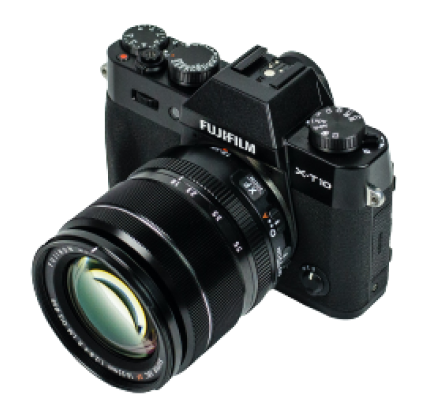
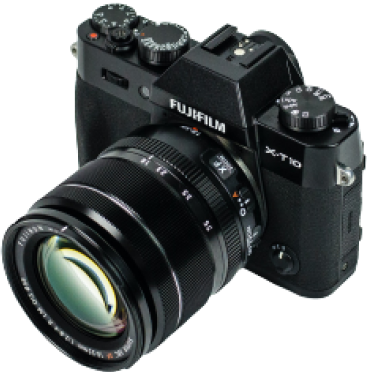
update: navigation-bar and hero section responsive

diff --git a/style.css b/style.css
@@ -81,16 +81,10 @@ body {
   display: flex;
   gap: 1rem;
   align-items: center;
-  background-image: url(./images/Circle\ design.svg);
-  background-position: right center;
-  background-repeat: no-repeat;
-  object-fit: cover;
-  padding: 3rem 0;
   margin-top: 2rem;
+  margin-bottom: 2rem;
 }
-.hero-content {
-  flex: 1;
-}
+
 .hero-content > .section-description,
 .primary-button {
   margin-top: 2rem;
@@ -109,11 +103,58 @@ body {
   font-weight: 700;
   line-height: 4rem;
 }
-
+.hero-content,
 .hero-img {
   flex: 1;
+}
+.hero-img {
   text-align: right;
+  background-image: url(./images/circle-bg1.png);
+  background-position: right center;
+  background-repeat: no-repeat;
+  object-fit: cover;
+  padding-top: 6rem;
 }
 .hero-img img {
-  max-width: 100%;
+  max-width: 80%;
+  position: relative;
+  top: -50px;
+  right: 50px;
 }
+/* mobile responsive */
+@media screen and (max-width: 576px) {
+  .nav-content {
+    flex-direction: column;
+  }
+  .nav-links {
+    align-items: center;
+    flex-direction: column;
+    margin-top: 1rem;
+    gap: 1rem;
+  }
+  #hero {
+    flex-direction: column-reverse;
+  }
+  .hero-img {
+    background-image: url(./images/circle-bg2.png);
+    text-align: center;
+    background-position: center;
+    background-size: cover;
+  }
+  .hero-img img {
+    position: relative;
+    right: 0;
+  }
+  .hero-content {
+    text-align: center;
+  }
+  .hero-title {
+    font-size: 28px;
+    line-height: 42px;
+  }
+  .hero-content > .section-description {
+    font-size: 14px;
+  }
+}
+
+

diff --git a/index.html b/index.html
@@ -50,11 +50,13 @@
           </a>
         </div>
         <div class="hero-img">
-          <img src="./images/main-camera.png" alt="camera" />
+          <img src="./images/main-camera.png" alt="camera"/>
         </div>
       </section>
     </header>
-    <main></main>
+    <main>
+      
+    </main>
     <footer></footer>
   </body>
 </html>
